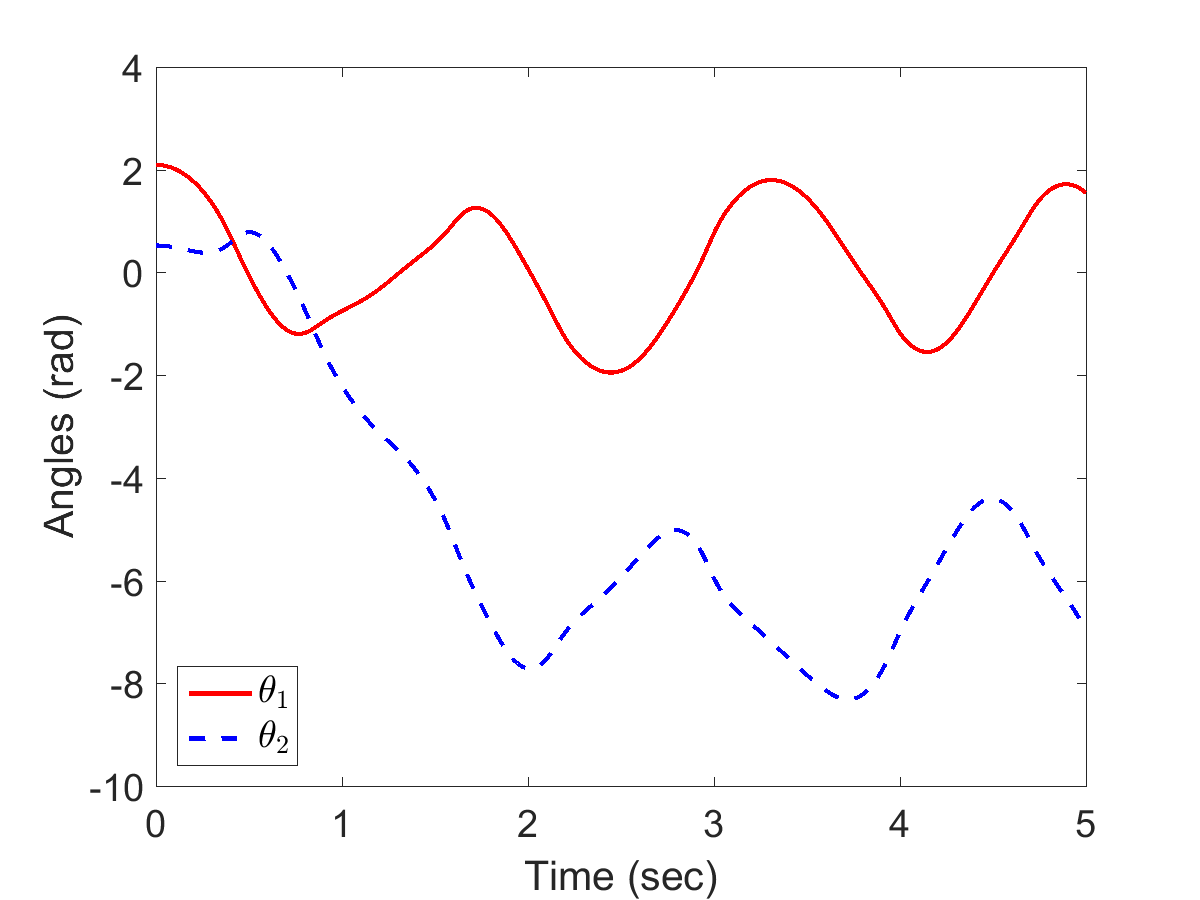
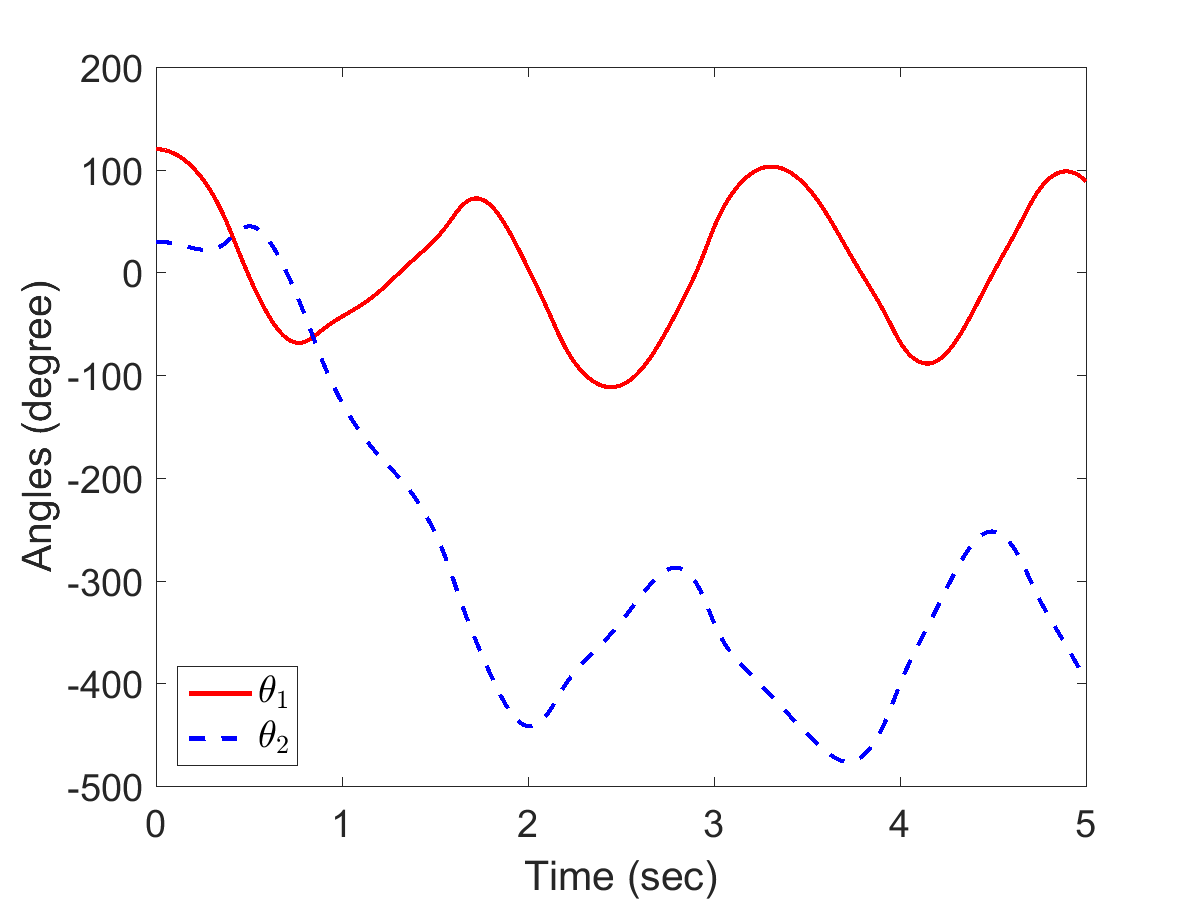
Signed-off-by: Mansour Torabi <mtmansourt@gmail.com>

diff --git a/EVAL1.m b/EVAL1.m
@@ -31,7 +31,8 @@ Eq = LagrangeDynamicEqDeriver(L, q, Dq);
                            [0.5, 0.5, 1, 5, 0.2, 0.5, 9.81], tt, [120,30,0,0]/180*pi);
 %%             
 figure; 
-plot(tt,xx(:,1),'r', 'linewidth',2); hold on; plot(tt,xx(:,2),'--b','linewidth',2);
+plot(tt,xx(:,1)/pi*180,'r', 'linewidth',2); hold on; plot(tt,xx(:,2)/pi*180,...
+    '--b','linewidth',2);
 
 S1 = sprintf('$ \\theta_1$'); 
 S2 = sprintf('$ \\theta_2$');
@@ -39,7 +40,7 @@ H = legend(S1, S2);
 set(H,'interpreter','latex','fontsize',18,'location','SouthWest');
 
 hx = xlabel('Time (sec)');   set(hx, 'fontsize', 18);
-hy = ylabel('Angles (rad)'); set(hy, 'fontsize', 18);
+hy = ylabel('Angles (degree)'); set(hy, 'fontsize', 18);
 set(gca, 'fontsize', 18);
 saveas(gcf, 'Pic/Ex1.png')
 
